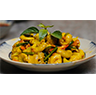
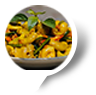
update marker

diff --git a/src/assets/js/script.js b/src/assets/js/script.js
@@ -151,15 +151,15 @@ $(document).ready(function($) {
 			})
 			.marker({
 				position: markerPosition,
-				// icon: 'assets/images/marker.png'
+				icon: 'assets/images/marker.png'
 			})
 			.marker({
 				position: markerPosition2,
-				// icon: 'assets/images/marker.png'
+				icon: 'assets/images/marker.png'
 			})
 			.marker({
 				position: markerPosition3,
-				// icon: 'assets/images/marker.png'
+				icon: 'assets/images/marker.png'
 			});
 	} catch(err) {
 
